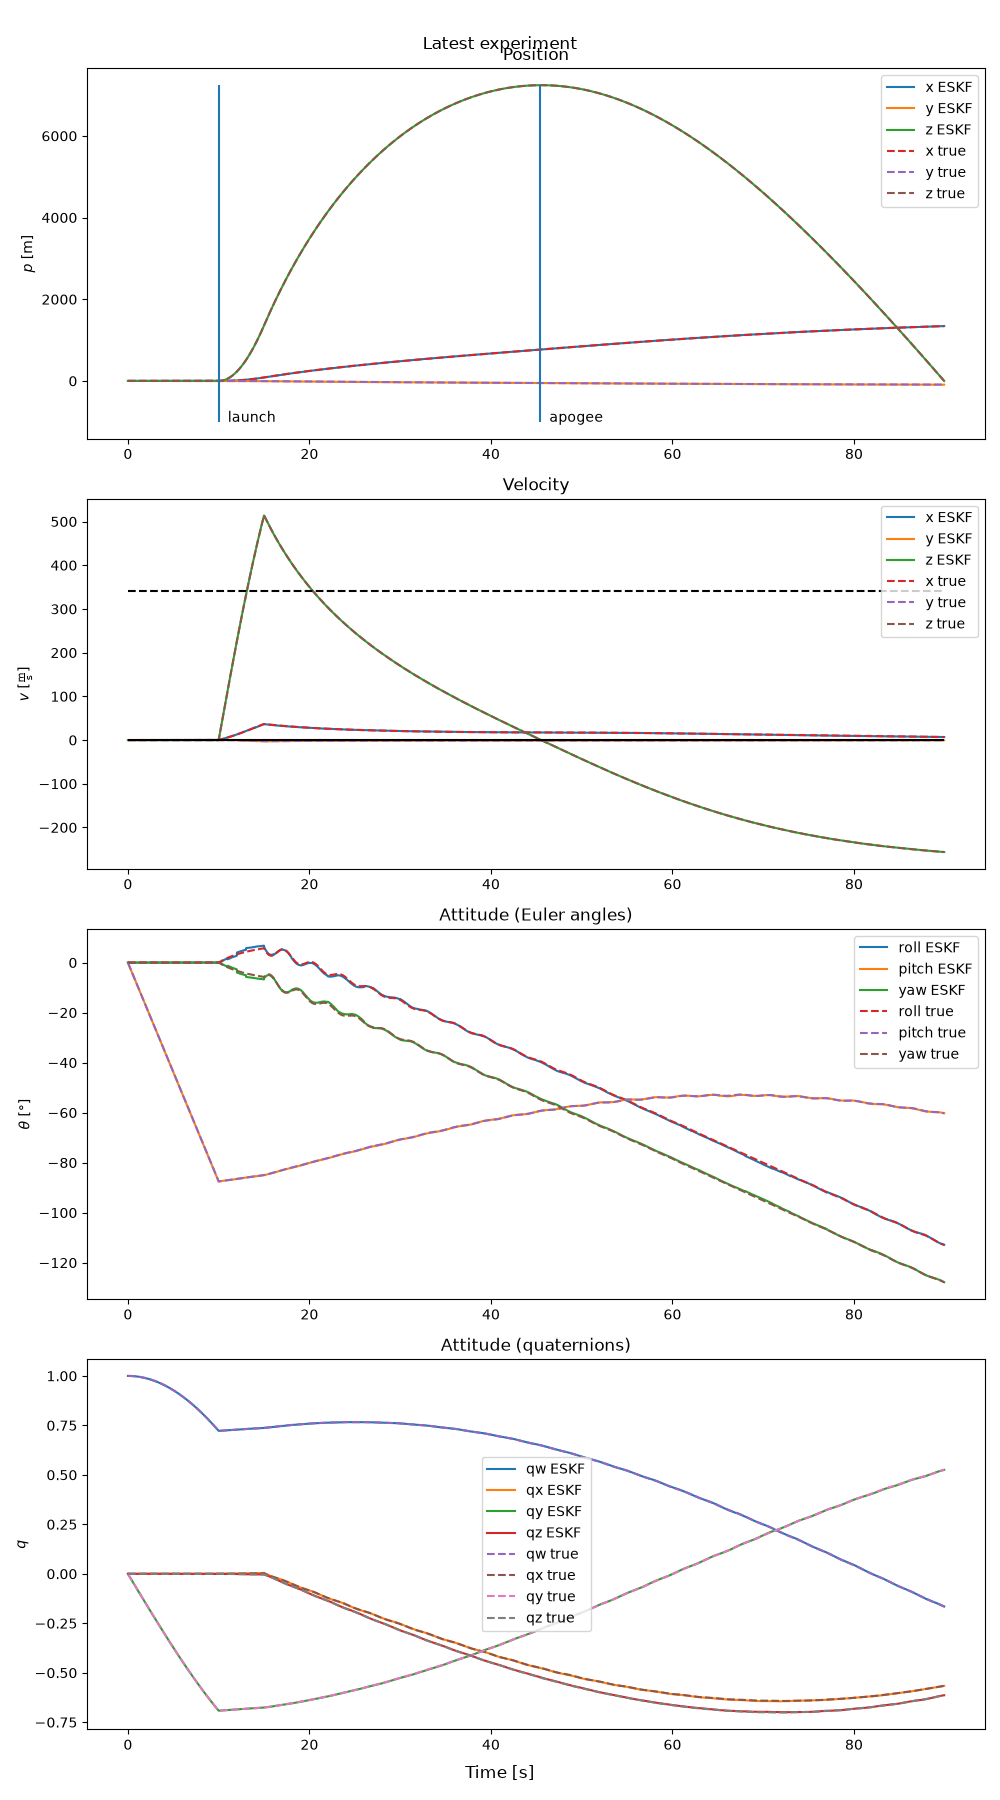
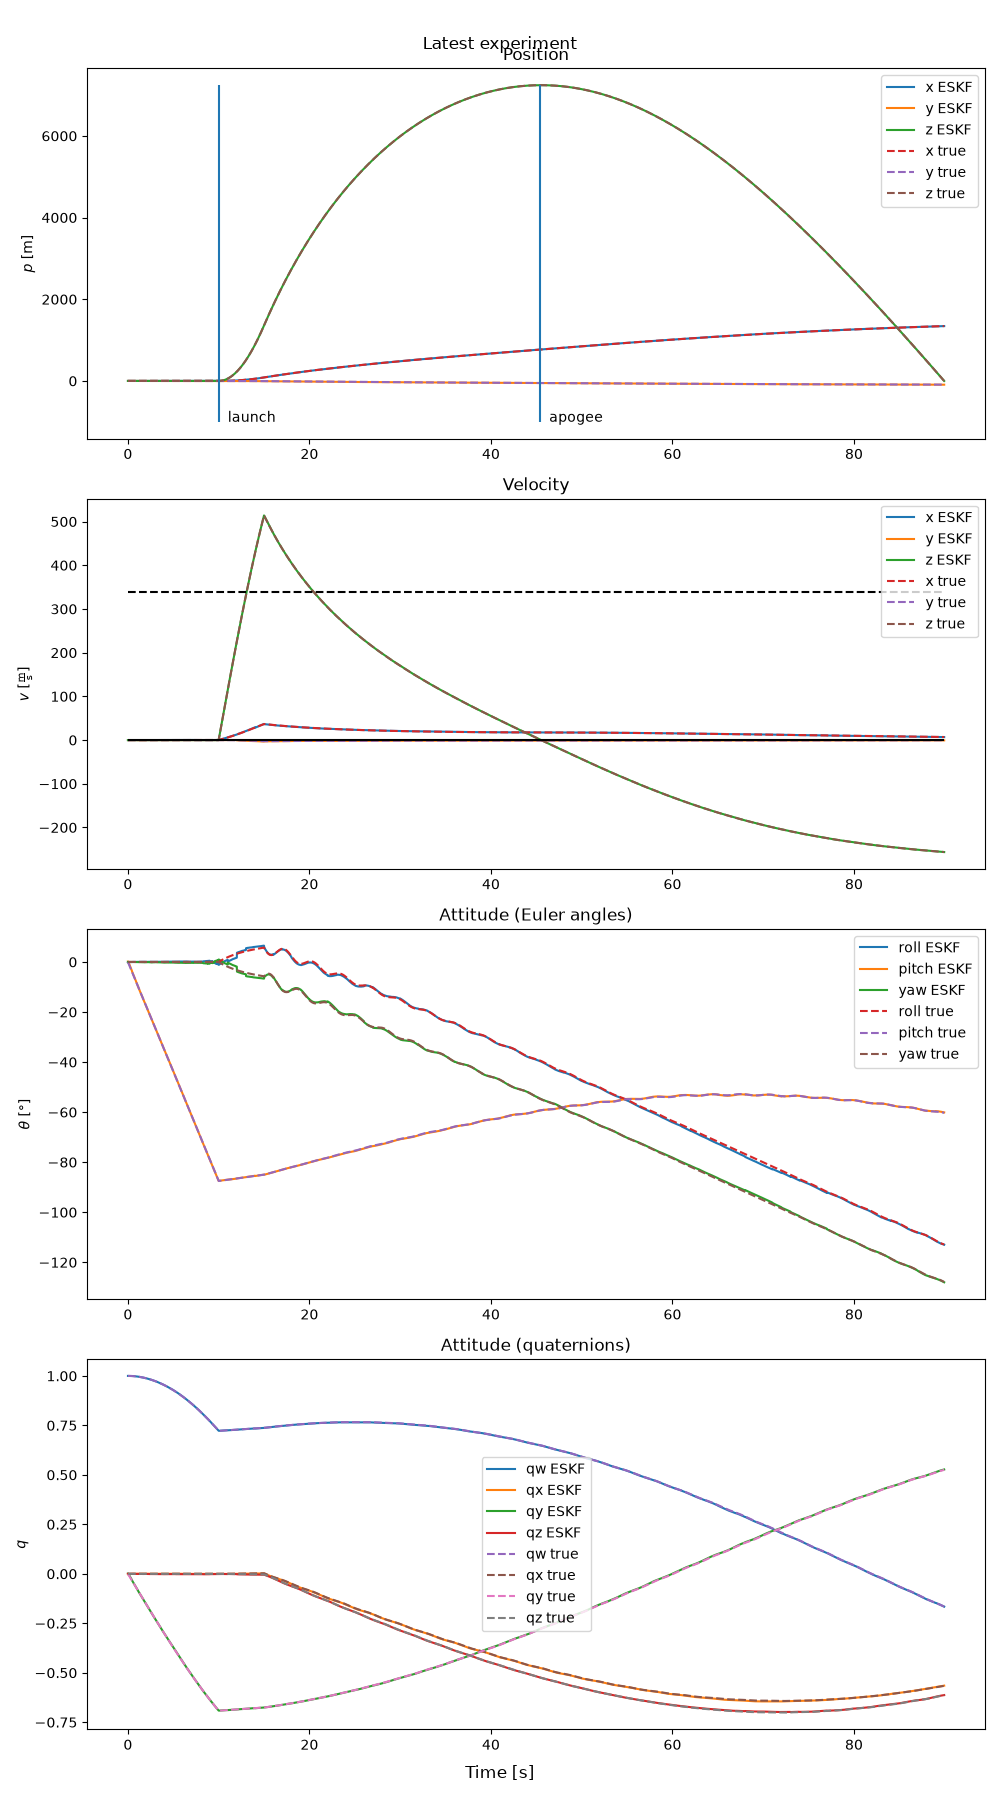
finshed copying to older repos

diff --git a/sim_and_livetest/simulator.py b/sim_and_livetest/simulator.py
@@ -56,7 +56,7 @@ shockwave = spiky_sinusoidal
 # sensor parameters
 GNSS_VARIANCE           = array([10.0]*3)**2  /100 # m^2
 BAROMETER_VARIANCE      = 10**2             /100 # Pa^2
-ACCELEROMETER_VARIANCE  = array([0.1]*3)**2  /1 # m/s^2 ^2 
+ACCELEROMETER_VARIANCE  = array([0.5]*3)**2  /1 # m/s^2 ^2 
 GYROSCOPE_VARIANCE      = array([0.03]*3)**2 /1 # /s ^2
 MAGNETOMETER_VARIANCE   = array([1.0]*3)**2  /1 # µT ^2
 ACCELEROMETER_BIAS      = array([0.2, 0.1, 0.3])  * 0.0

diff --git a/ESKF/src/ESKF_update.c b/ESKF/src/ESKF_update.c
@@ -591,6 +591,9 @@ int update(ErrorStateKalmanFilter *self,
     uint8_t gns_new, uint8_t bar_new, 
     uint8_t acc_new, uint8_t mag_new){
 
+
+    mag_new = 0;
+    // acc_new = 0;
     int error;
 
     // no need to run if no measurements available
